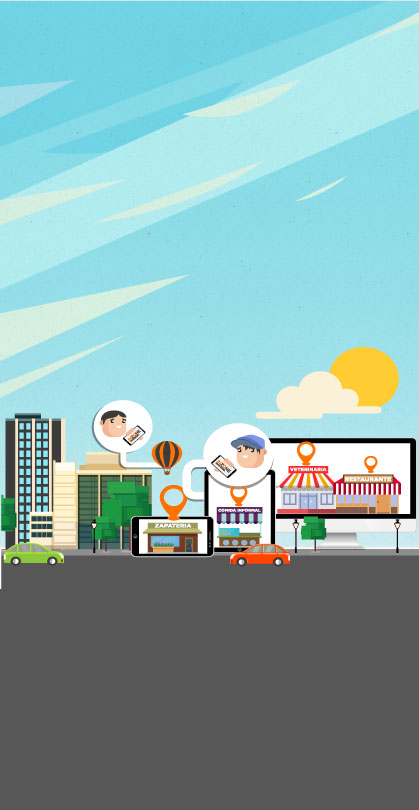
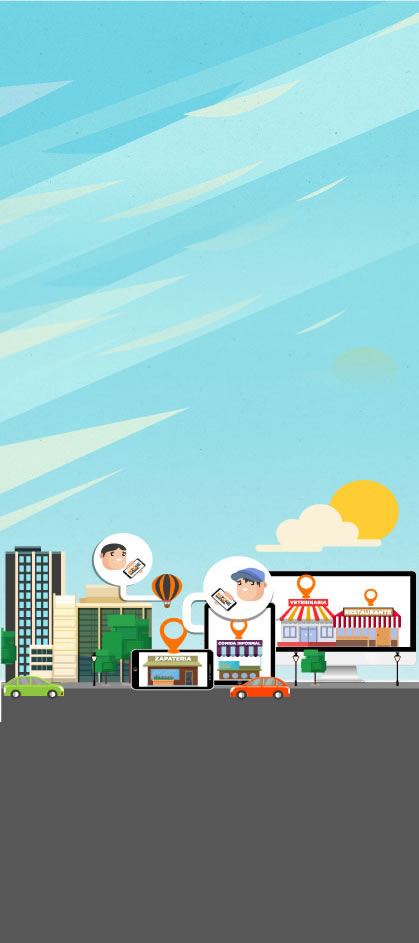
App acomodo diferente para el diseño

diff --git a/www/index.html b/www/index.html
@@ -310,13 +310,14 @@
               
             </div>
           <div class="footer">
-            <div class="botones">
-              <ons-button class="boton_ruleta" onclick="window.location.href='registro/login.html'"><img ng-src="img/acceder.png" alt=""><br> </ons-button>
-              <ons-button class="boton_ruleta" onclick="window.location.href='ruleta.html'"><img ng-src="img/ruleta.png" alt=""><br> </ons-button>
-              <ons-button class="boton_ruleta" onclick="menu.setMainPage('cupones.html', {closeMenu: true})"><img ng-src="img/cupones.png" alt=""><br> </ons-button>
-              <ons-button class="boton_ruleta" onclick="exitFromApp();"><img ng-src="img/salir.png" alt=""><br></ons-button>
-            </div>
             <a ng-repeat="banner in banner.bannerportada" ng-if="banner.estado == '1'" target="_blank" ng-href="{{banner.url}}" class="bannerImagen" style="background: url('http://inzone.com.mx/assets/images/imgclientes/{{banner.imagen}}') no-repeat;"></a>
+            <div class="botones">
+              <ons-button class="boton_ruleta" onclick="window.location.href='registro/login.html'"><img src="img/acceder.png" alt=""><br> ACCEDER</ons-button>
+              <ons-button class="boton_ruleta" onclick="window.location.href='ruleta.html'"><img src="img/ruleta.png" alt=""><br> RULETA</ons-button>
+              <ons-button class="boton_ruleta" onclick="menu.setMainPage('cupones.html', {closeMenu: true})"><img src="img/cupones.png" alt=""><br> MIS CUPONES</ons-button>
+              <ons-button class="boton_ruleta" onclick="exitFromApp();"><img src="img/salir.png" alt=""><br> SALIR</ons-button>
+            </div>
+            
             <div class="copy"><p>INZONE &copy; 2019 | Versión: {{version}}</p></div>
           </div>
           </ons-page>

diff --git a/www/css/index.css b/www/css/index.css
@@ -124,10 +124,10 @@ h1 {
 .fa-google-plus-square{color: #cc0e0e;}
 .fa-whatsapp{color: #05b703;}
 .botonesHome{
-  height: 430px;
+  height: 390px;
 }
 .portada .page__content{
-  background: url('../img/fondo.jpg') center bottom no-repeat !important;
+  background: url('../img/fondo.jpg') center top no-repeat !important;
   position: relative !important;
   top: 0;
   background-size: cover;
@@ -146,7 +146,7 @@ h1 {
 }
 .homeUno{
   text-align: center;
-  min-height: 300px;
+  min-height: 170px;
 }
 .homeUno ons-button{width: 50%; float: left; border-radius: 0 !important; padding: 0 !important;border: none;}
 .imagenHome{background: url(../img/imgmapa.png) center top no-repeat; width: 100%; height: 155px; background-size: contain;}
@@ -488,7 +488,7 @@ ons-tabbar{
 }
 .footer{width: 100%; height: auto; text-align: center; background: #0696B8;}
 .footer .botones i{font-size: 25px; padding: 0; margin: 0; position: relative;top: 10px;}
-.footer .botones ons-button{color: #fff;width: 24%;font-size: 9px; border-radius: 0; padding: 0; background-color: transparent;}
+.footer .botones ons-button{color: #fff;width: 23%;font-size: 9px; border-radius: 0; padding: 0; background-color: transparent;}
 .boton_ruleta img{padding: 5px 0 0 0;position: relative;top: 13px; }
 .footer .copy{color: #fff; font-size: .7em; background: #FF7200; padding: 1px 0}
 .content {
